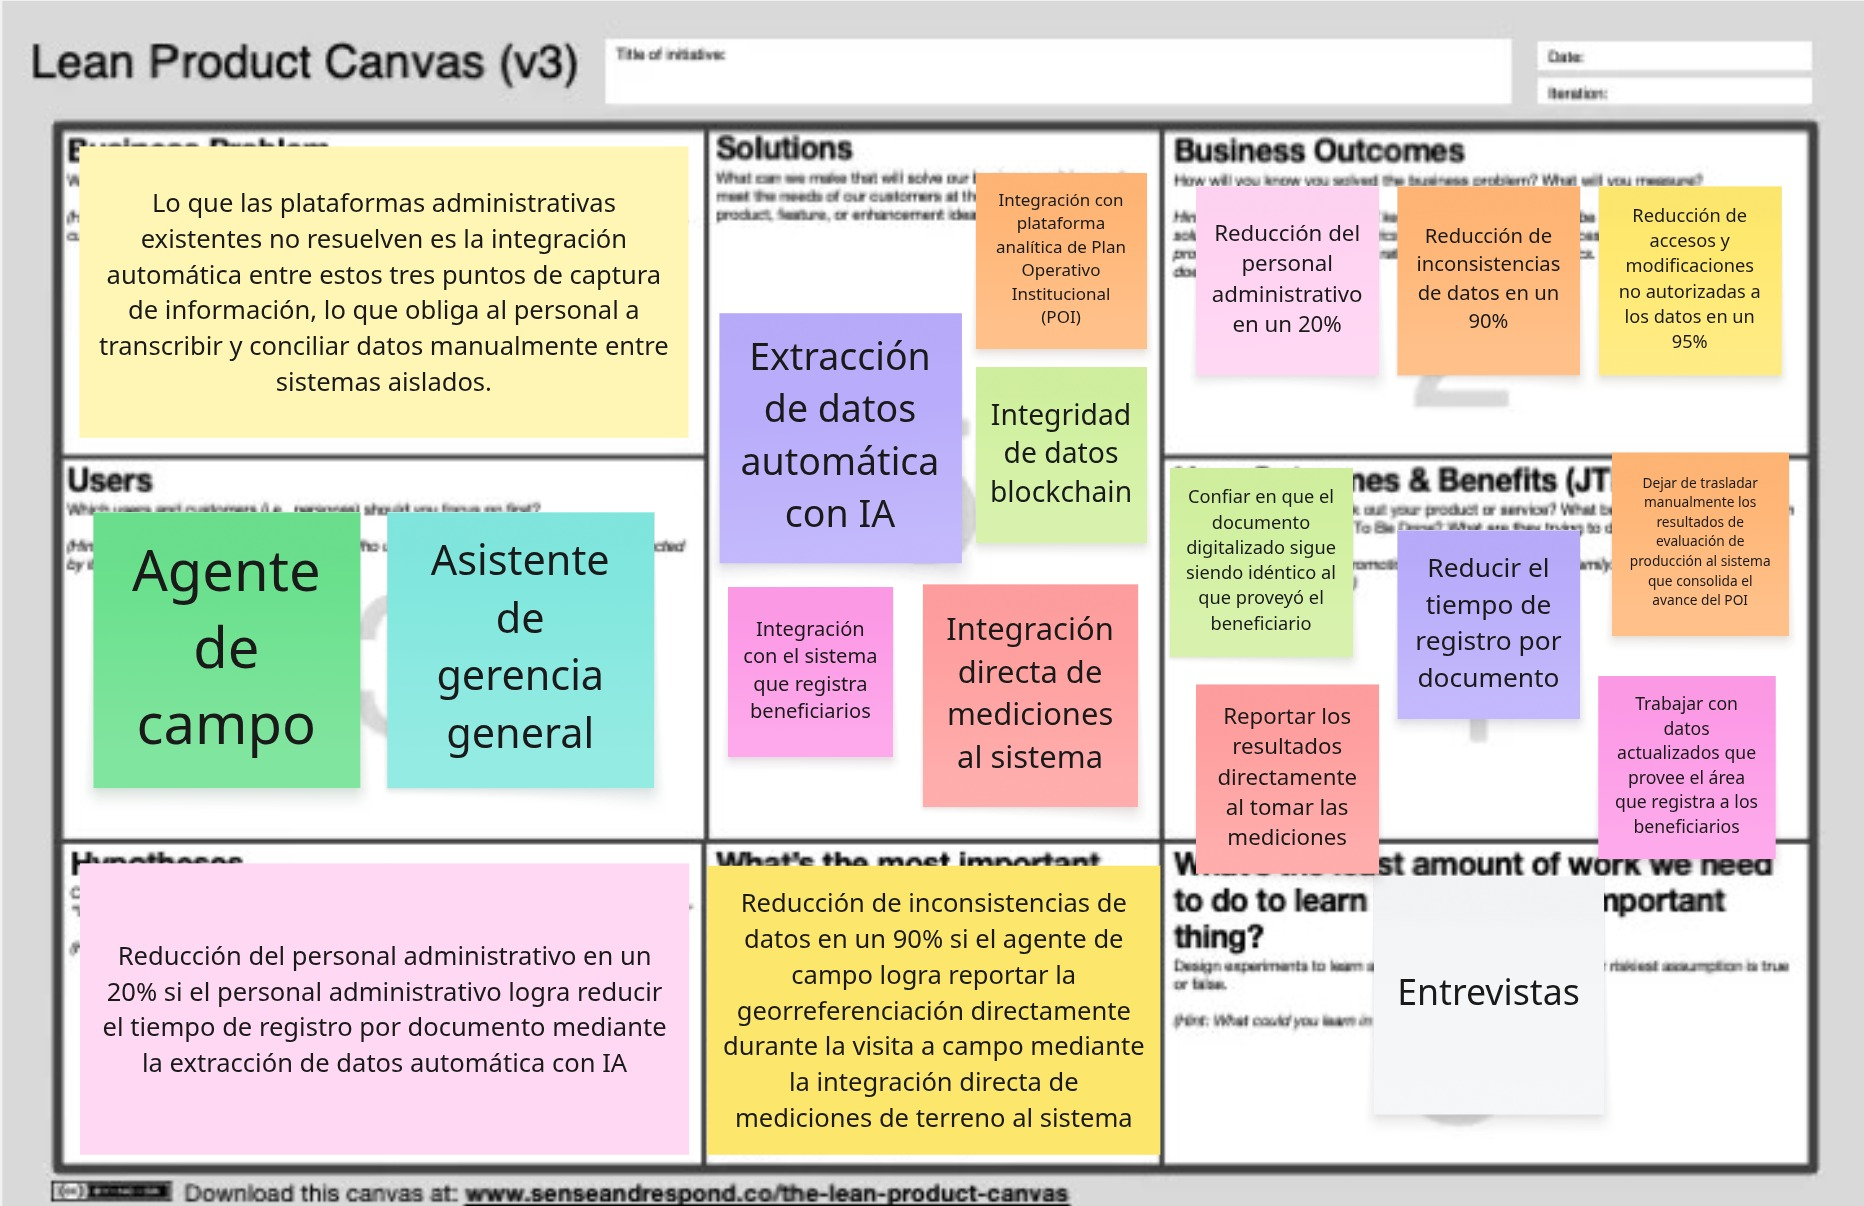
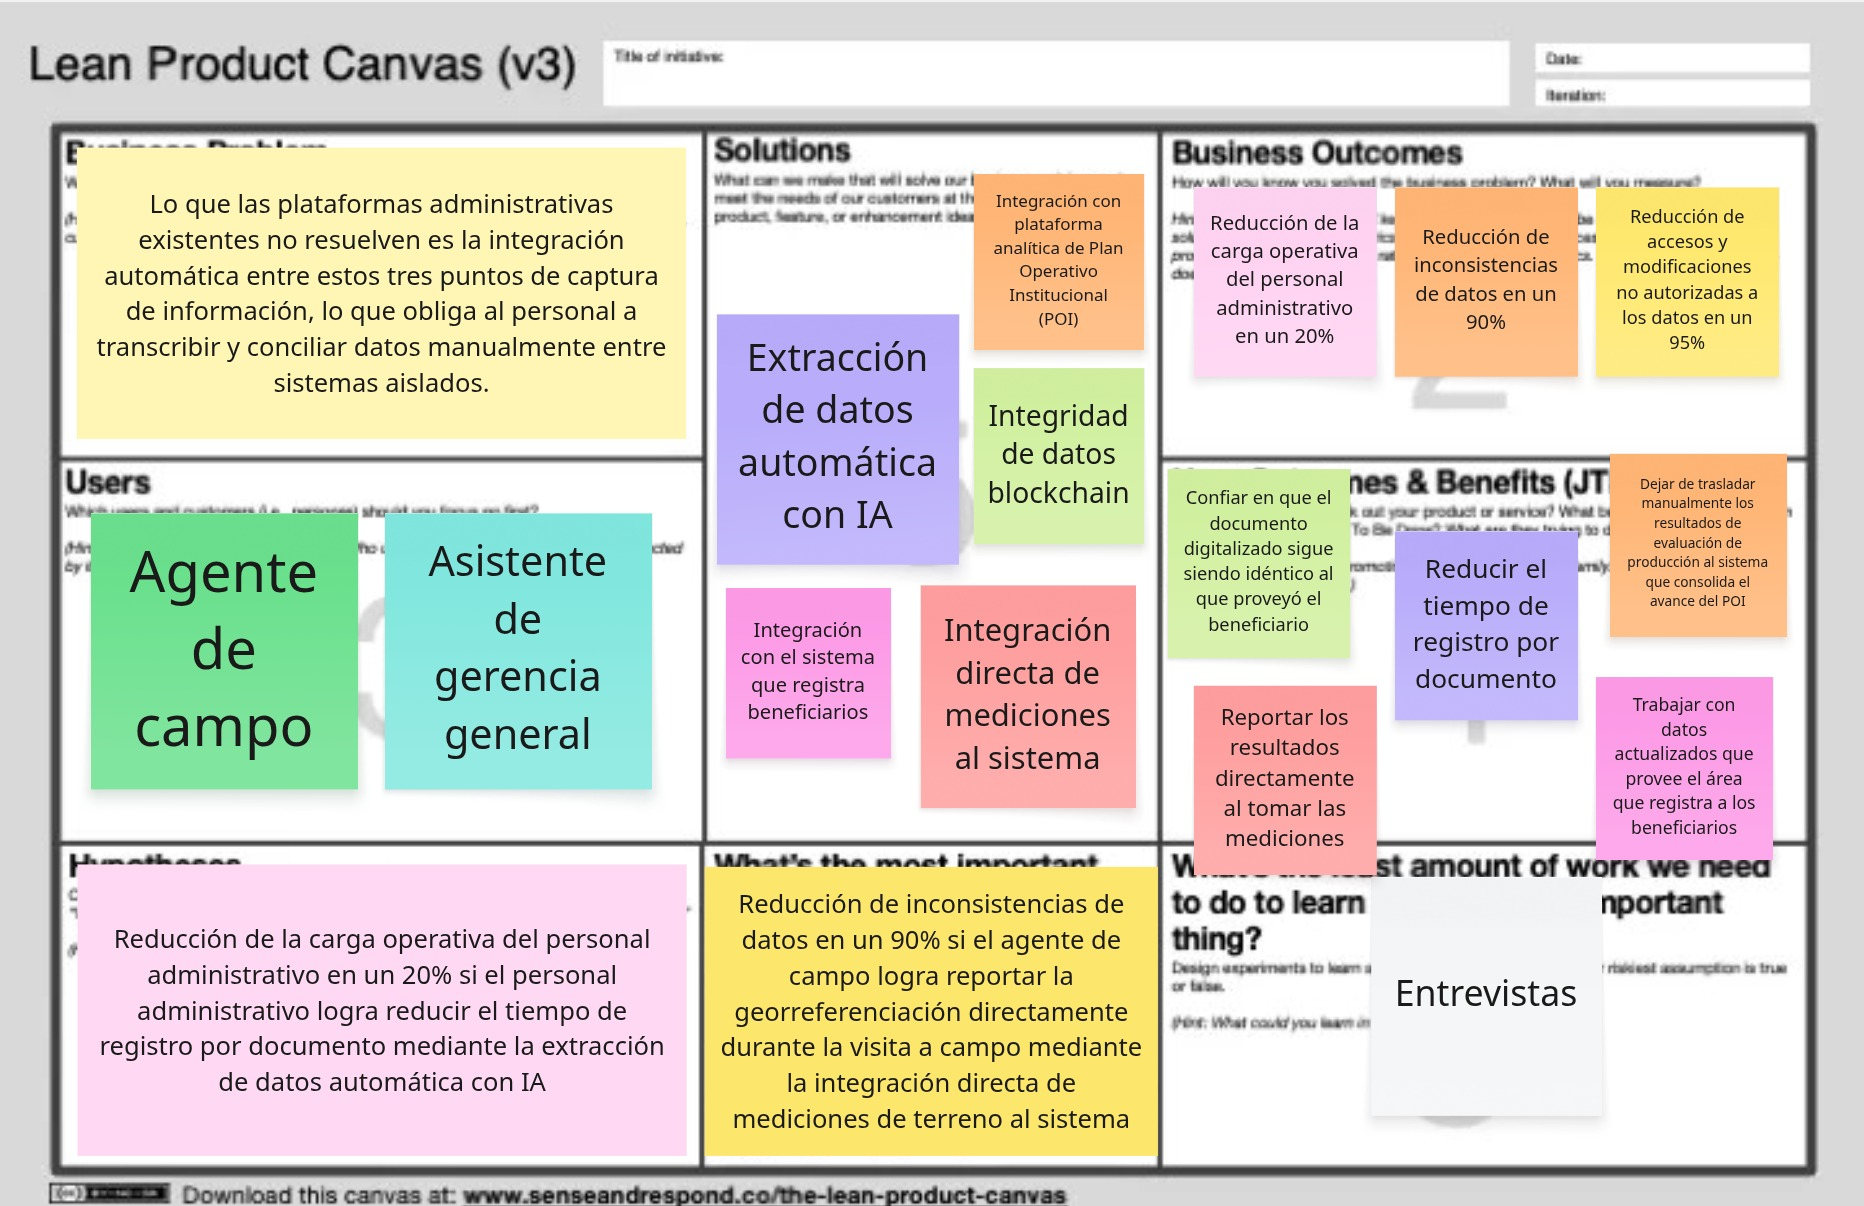
fix(lean-ux-canvas): correct wording of lean ux canvas business outcomes to be less agressive

Changed region(s): [[0.0, 0.0307, 0.9957, 1.0], [0.0933, 0.5216, 0.1556, 0.5522], [0.4979, 0.2454, 0.529, 0.2761]]

diff --git a/sections/intro/solution/lean_ux/hypothesis.md b/sections/intro/solution/lean_ux/hypothesis.md
@@ -2,7 +2,7 @@
 
 - Reducción de inconsistencias de datos en un 90% si el agente de campo logra reportar la georreferenciación directamente durante la visita a campo mediante la integración directa de mediciones de terreno al sistema.
 
-- Reducción del asistente de gerencia general en un 20% si el asistente de gerencia general logra reducir el tiempo de registro por documento mediante la extracción de datos automática con IA.
+- Reducción de la carga operativa del personal administrativo en un 20% si el asistente de gerencia general logra reducir el tiempo de registro por documento mediante la extracción de datos automática con IA.
 
 - Reducción de inconsistencias de datos en un 90% si el asistente de gerencia general logra dejar de trasladar manualmente los resultados de evaluación de producción al sistema que consolida el avance del POI mediante la integración con plataforma analítica de Plan Operativo Institucional (POI).
 

diff --git a/sections/intro/solution/lean_ux/assumptions.md b/sections/intro/solution/lean_ux/assumptions.md
@@ -1,5 +1,5 @@
 Business outcomes:
-- Reducción del asistente de gerencia general en un 20%.
+- Reducción de la carga operativa del personal administrativo en un 20%.
 - Reducción de inconsistencias de datos en un 90%.
 - Reducción de accesos y modificaciones no autorizadas a los datos en un 95%.
 
